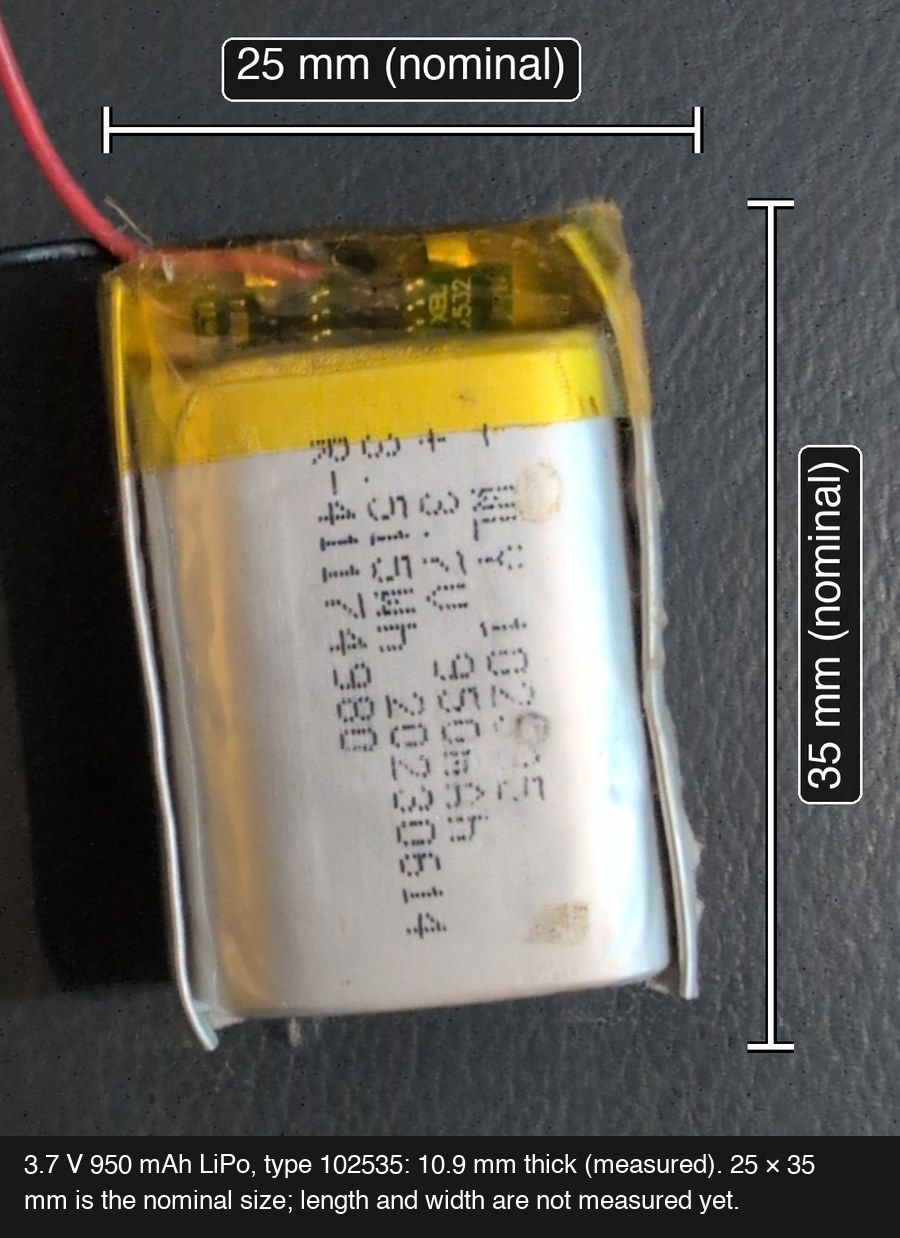
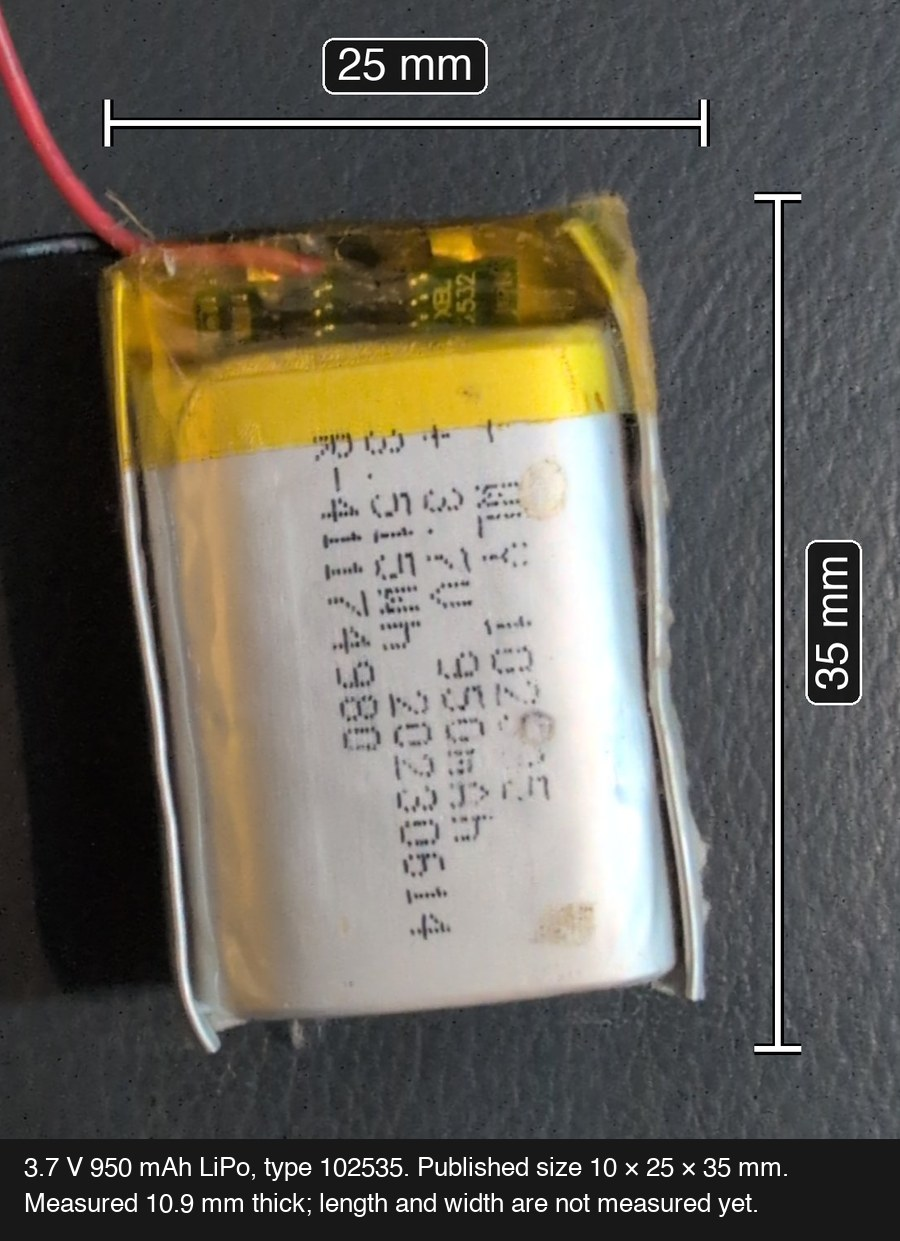
Component photos: published sizes on the image, measured sizes in the caption

diff --git a/.claude/tools/component_dims.py b/.claude/tools/component_dims.py
@@ -1,5 +1,5 @@
 #!/usr/bin/env python3
-"""Draws the measured dimensions onto the component photos in hardware/components/.
+"""Draws the published (standard) dimensions onto the component photos in hardware/components/.
 
 The untouched photos are read from git (commit SRC), so this can be re-run when a
 measurement changes.  Run with:  uv run --with pillow .claude/tools/component_dims.py
@@ -17,22 +17,27 @@ SRC = "558b775:hardware/images/"
 FONT = "/System/Library/Fonts/Helvetica.ttc"
 
 # name: (part box l, t, r, b in photo pixels, width label, height label, caption)
+# Labels carry the published (standard) size; the caption adds the owner's caliper reading.
 PARTS = {
-    "esp32-s3-zero": ((245, 515, 1160, 1850), "17.9 mm", "23.8 mm with USB-C",
-                      "Waveshare ESP32-S3-Zero: 17.9 × 23.8 mm including the USB-C socket."),
-    "pcm5102a-dac": ((330, 575, 1225, 2095), "20.2 mm", "30.9 mm with jack",
-                     "Adafruit PCM5102A I2S DAC: 20.2 × 30.9 mm including the headphone jack."),
-    "st7735-tft-back": ((350, 625, 1240, 2085), "34 mm", "58.2 mm",
-                        "1.8\" ST7735 display, back side: board 34 × 58.2 mm. A full-size SD card "
-                        "(or microSD adapter) sticks out 19 mm, making it 53 mm across."),
-    "ky040-encoder": ((195, 825, 910, 1665), "21.7 mm (19 after trimming)", "26.0 mm",
-                      "KY-040 / M274 rotary encoder: board 21.7 × 26.0 mm without the header pins, "
-                      "trimmed to 19 mm wide for this build."),
-    "tp4056-charger": ((395, 820, 985, 1760), "17.3 mm", "26.7 mm",
-                       "TP4056 USB-C charger with protection: 17.3 × 26.7 mm."),
-    "lipo-battery": ((375, 800, 1100, 1835), "25 mm (nominal)", "35 mm (nominal)",
-                     "3.7 V 950 mAh LiPo, type 102535: 10.9 mm thick (measured). "
-                     "25 × 35 mm is the nominal size; length and width are not measured yet."),
+    "esp32-s3-zero": ((245, 515, 1160, 1850), "18 mm", "23.5 mm",
+                      "Waveshare ESP32-S3-Zero. Published size 18 × 23.5 mm. "
+                      "Measured 17.9 × 23.8 mm with the USB-C socket."),
+    "pcm5102a-dac": ((330, 575, 1225, 2095), "20.3 mm", "32.5 mm",
+                     "Adafruit PCM5102 I2S DAC (product 6250). Published size 20.3 × 32.5 mm. "
+                     "Measured 20.2 × 30.9 mm with the headphone jack."),
+    "st7735-tft-back": ((350, 625, 1240, 2085), "34.5 mm", "58 mm",
+                        "1.8\" ST7735 display, back side. Published board size 34.5 × 58 mm. "
+                        "Measured 34 × 58.2 mm. A full-size SD card (or microSD adapter) sticks out 19 mm."),
+    "ky040-encoder": ((195, 825, 910, 1665), "21.7 mm (measured)", "26.0 mm (measured)",
+                      "KY-040 / M274 rotary encoder. Sellers give no consistent board size (26 × 19 to "
+                      "32 × 19 mm), so this is the measured board, 21.7 × 26.0 mm without the header "
+                      "pins. Trimmed to 19 mm wide for this build."),
+    "tp4056-charger": ((395, 820, 985, 1760), "17 mm", "28 mm",
+                       "TP4056 USB-C charger with protection. Published size 17 × 28 mm (most sellers). "
+                       "Measured 17.3 × 26.7 mm."),
+    "lipo-battery": ((375, 800, 1100, 1835), "25 mm", "35 mm",
+                     "3.7 V 950 mAh LiPo, type 102535. Published size 10 × 25 × 35 mm. "
+                     "Measured 10.9 mm thick; length and width are not measured yet."),
 }
 
 

diff --git a/.claude/CLAUDE.md b/.claude/CLAUDE.md
@@ -76,8 +76,10 @@ inner pad 14: the owner turned down moving it to the RX header pin.
   wiring diagram; `hardware/wiring/PERFBOARD.md` has the layout, the back-side connections
   drawing and the wire list. All three drawings come from
   `.claude/tools/perfboard_layout.py`, which writes into `hardware/wiring/`.
-- `hardware/components/` holds one photo per part with its measured size drawn on it
-  (owner's request, 2026-11-15). They are made by `.claude/tools/component_dims.py`
+- `hardware/components/` holds one photo per part with its published (standard) size drawn on it
+  and the owner's caliper reading in the caption (owner's request, 2026-11-15). Published:
+  ESP32 18 × 23.5, DAC 20.3 × 32.5, display 34.5 × 58, charger 17 × 28, battery
+  10 × 25 × 35; the encoder has no consistent published size. They are made by `.claude/tools/component_dims.py`
   (`uv run --with pillow`), which reads the untouched photos from git commit 558b775.
   Update the sizes there when a part is re-measured.
 - Headers are soldered (2026-11-14); hole positions in `hardware/wiring/PERFBOARD.md` and the

diff --git a/hardware/components/README.md b/hardware/components/README.md
@@ -1,10 +1,10 @@
 # Components
 
-Each photo carries the part's measured size. How the parts connect is in [../wiring](../wiring/WIRING.md).
+Each photo carries the part's published size, with our own caliper reading in the caption. How the parts connect is in [../wiring](../wiring/WIRING.md).
 
 | | | |
 |---|---|---|
 | <img src="esp32-s3-zero.jpg" width="260"> | <img src="pcm5102a-dac.jpg" width="260"> | <img src="st7735-tft-back.jpg" width="260"> |
 | <img src="ky040-encoder.jpg" width="260"> | <img src="tp4056-charger.jpg" width="260"> | <img src="lipo-battery.jpg" width="260"> |
 
-The slide switch has no photo yet. The battery's length and width are the nominal figures for a 102535 cell; only its thickness has been measured.
+The slide switch has no photo yet. The encoder has no consistent published size, so its photo shows the measured board.
